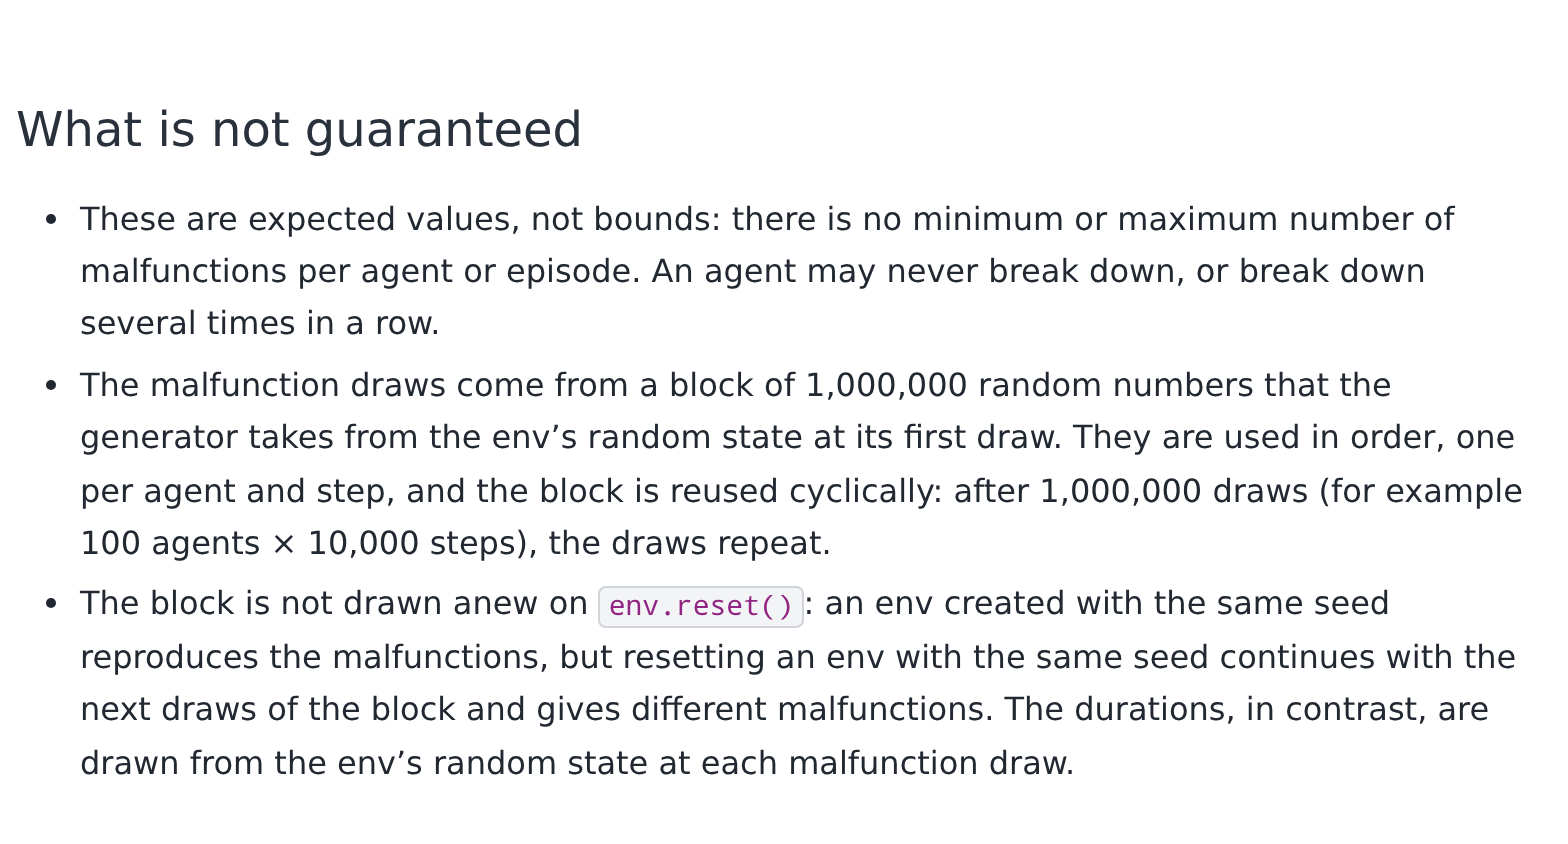
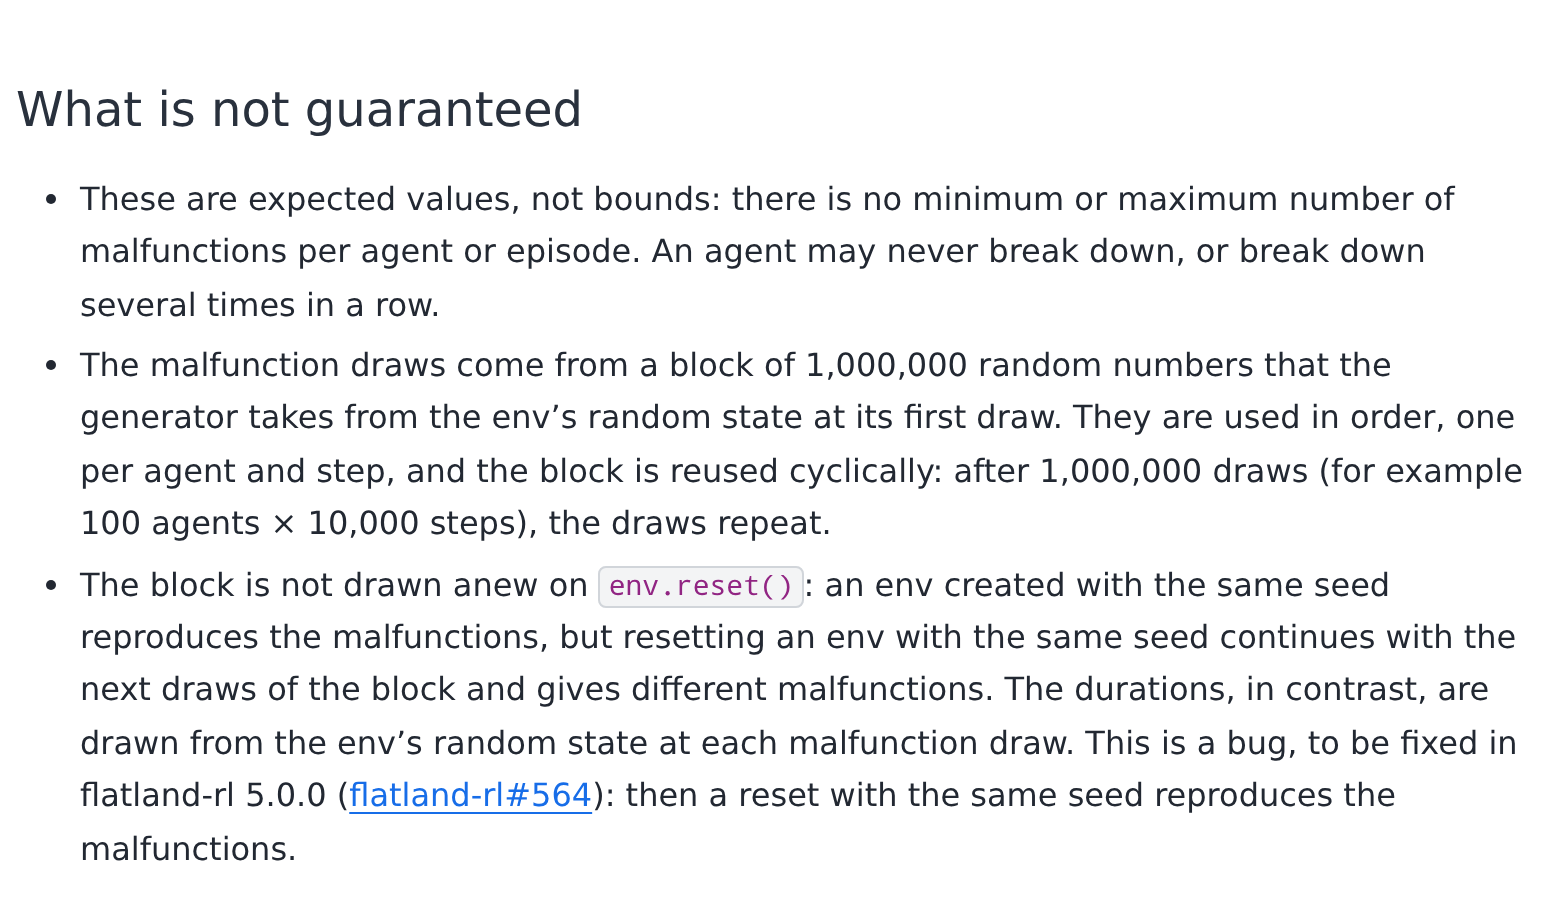
docs(plans): mark the review threads resolved and retake the not-guaranteed screenshot.

Changed region(s): [[0.0312, 0.3697, 0.9688, 0.955], [0.0, 0.0924, 0.9375, 0.3389]]

diff --git a/docs/plans/docs-default-malfunction-generator.md b/docs/plans/docs-default-malfunction-generator.md
@@ -54,8 +54,8 @@ PR [#43](https://github.com/flatland-association/flatland-book/pull/43), based o
 
 | Fixed | ID | Source | Category | Severity | Finding | Commit message |
 |---|---|---|---|---|---|---|
-| ✅ ❌ | 1 | [PR comment](https://github.com/flatland-association/flatland-book/pull/43#discussion_r4512106228) | docs | low | `environment/environment/stochasticity.ipynb:205`: the link `[Speed Profiles](speed_profiles)` in the caption of the timeline plots leads nowhere. Its target `environment/environment/speed_profiles.ipynb` only comes with #42 (open), and a link without the file extension does not resolve in GitHub's or an IDE's notebook view, only in the built book. Fixed in cc5f649 (S4): the link is now `speed_profiles.ipynb`; in the book it works once #42 is merged. | docs(stochasticity): link the Speed Profiles page by its file name. |
-| ✅ ❌ | 2 | [PR comment](https://github.com/flatland-association/flatland-book/pull/43#discussion_r4512243243) | design | medium | `environment/environment/stochasticity.ipynb:497`: the reviewer asks whether it is the right design that resetting an env with the same seed gives different malfunctions, as this is not reproducible. The text describes flatland-rl as it is: `ParamMalfunctionGen` keeps its block of random numbers and `_rand_idx` across `env.reset()`. The design can only change in flatland-rl; it is tracked in [flatland-rl#564](https://github.com/flatland-association/flatland-rl/issues/564). Fixed in e9410ea (S5): the page marks it as a bug, to be fixed in flatland-rl 5.0.0, and links flatland-rl#564. | docs(stochasticity): mark the malfunctions not reproduced on reset as a bug to be fixed in flatland-rl 5.0.0. |
+| ✅ | 1 | [PR comment](https://github.com/flatland-association/flatland-book/pull/43#discussion_r4512106228), resolved | docs | low | `environment/environment/stochasticity.ipynb:205`: the link `[Speed Profiles](speed_profiles)` in the caption of the timeline plots leads nowhere. Its target `environment/environment/speed_profiles.ipynb` only comes with #42 (open), and a link without the file extension does not resolve in GitHub's or an IDE's notebook view, only in the built book. Fixed in cc5f649 (S4): the link is now `speed_profiles.ipynb`; in the book it works once #42 is merged. | docs(stochasticity): link the Speed Profiles page by its file name. |
+| ✅ | 2 | [PR comment](https://github.com/flatland-association/flatland-book/pull/43#discussion_r4512243243), resolved | design | medium | `environment/environment/stochasticity.ipynb:497`: the reviewer asks whether it is the right design that resetting an env with the same seed gives different malfunctions, as this is not reproducible. The text describes flatland-rl as it is: `ParamMalfunctionGen` keeps its block of random numbers and `_rand_idx` across `env.reset()`. The design can only change in flatland-rl; it is tracked in [flatland-rl#564](https://github.com/flatland-association/flatland-rl/issues/564). Fixed in e9410ea (S5): the page marks it as a bug, to be fixed in flatland-rl 5.0.0, and links flatland-rl#564. | docs(stochasticity): mark the malfunctions not reproduced on reset as a bug to be fixed in flatland-rl 5.0.0. |
 
 **Issue references:** the PR closes no issue, and the `main..HEAD` diff references none (only PR #42 and #43, in the plan).
 
